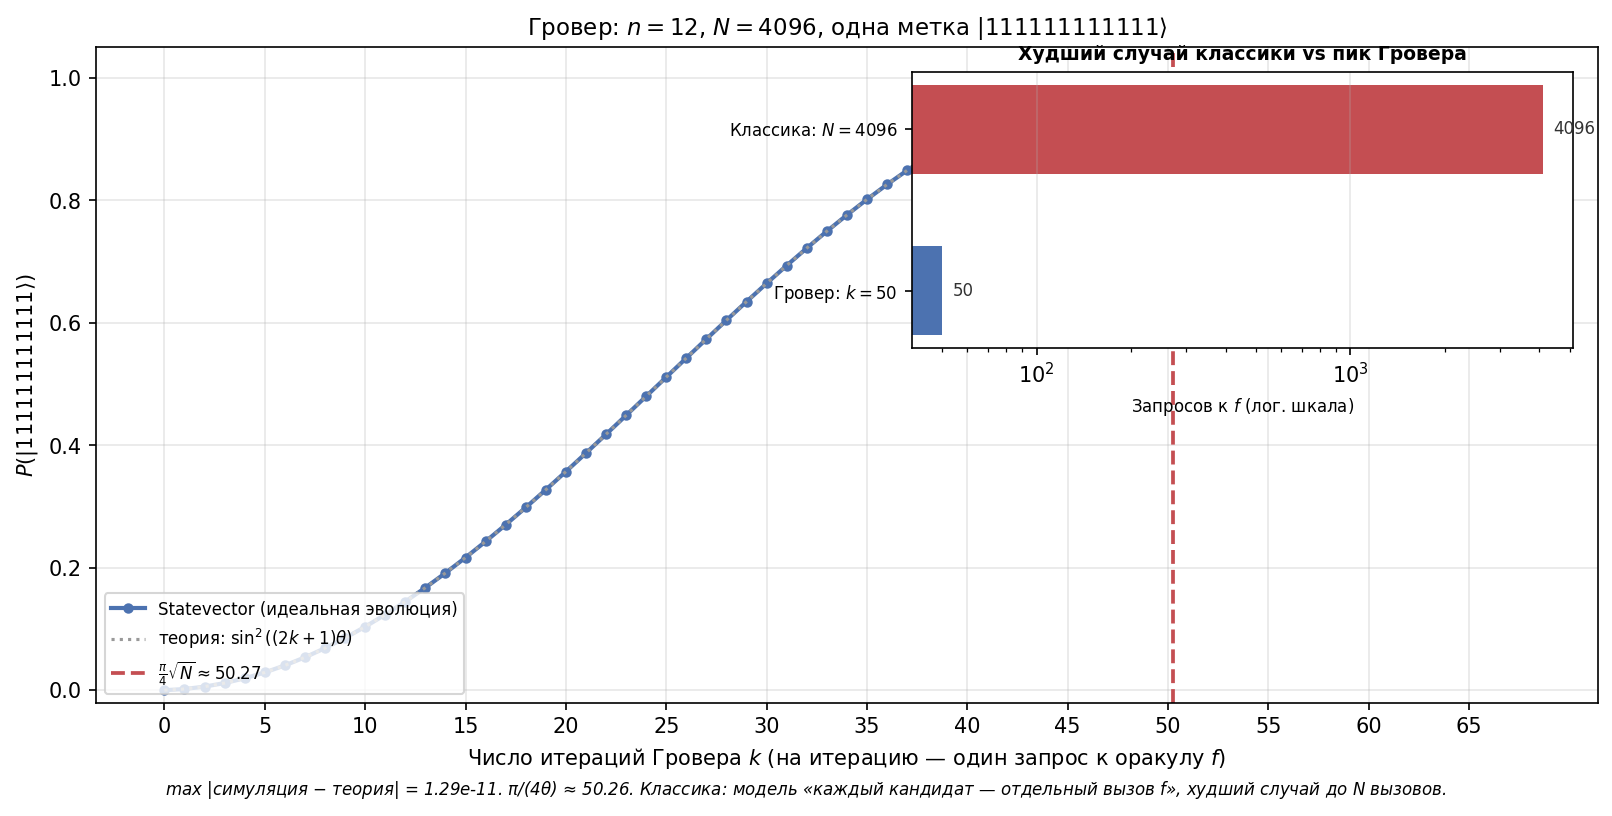
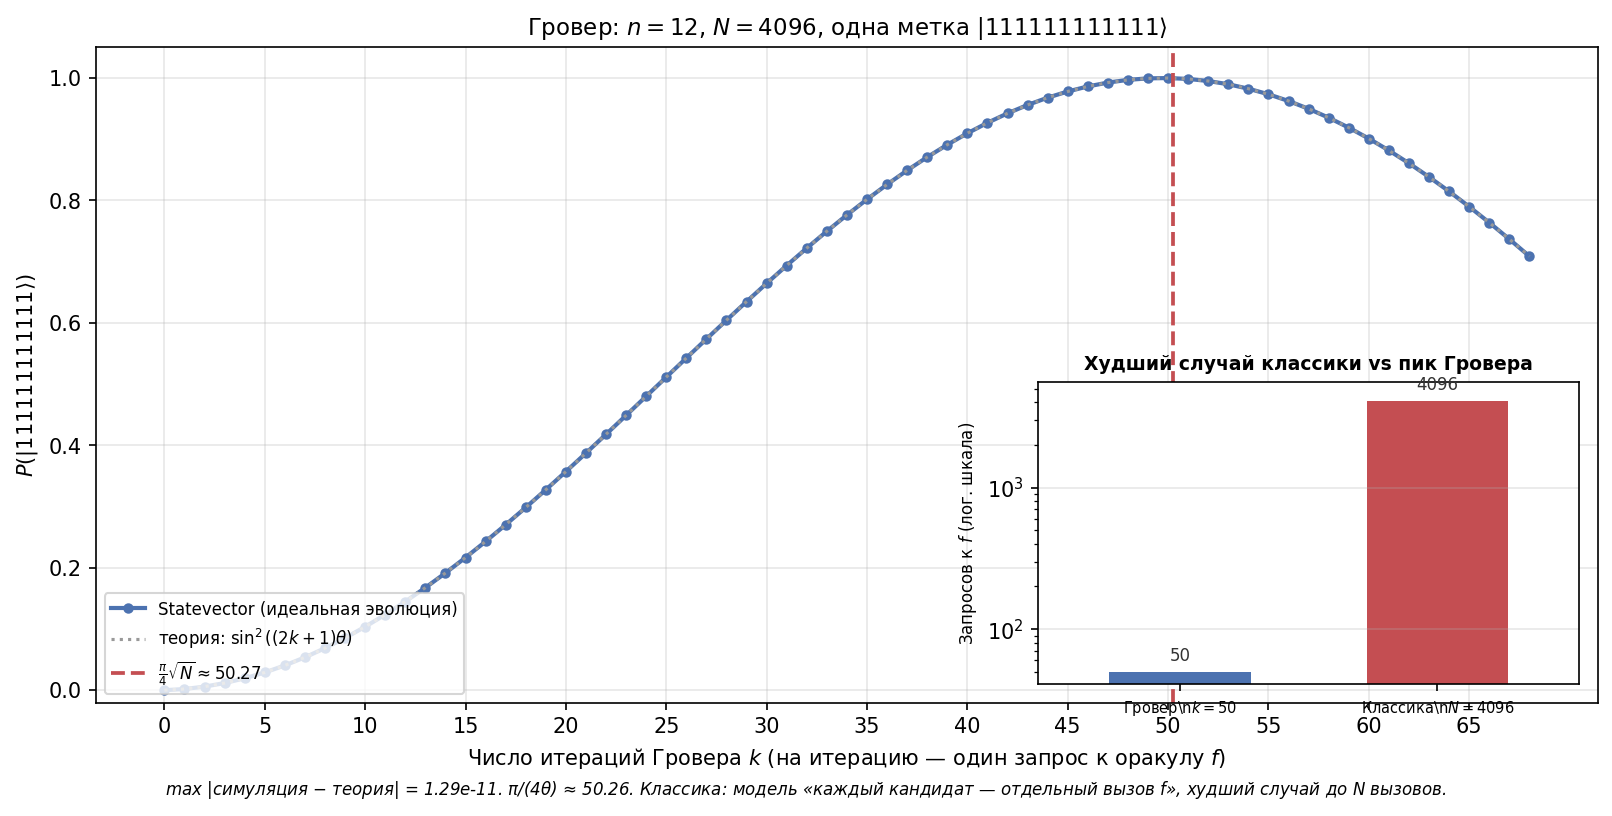
Grover 12q: врезка столбиками внизу справа, лог. ось Y

diff --git a/grover_n_qubits_aer_iterations.py b/grover_n_qubits_aer_iterations.py
@@ -174,36 +174,47 @@ def main() -> None:
 
     inset_axis = inset_axes(
         axis,
-        width="44%",
-        height="42%",
-        loc="upper right",
-        borderpad=1.2,
+        width="36%",
+        height="46%",
+        loc="lower right",
+        borderpad=0.9,
     )
     bar_heights = [
         max(grover_oracle_queries_at_peak, 1),
         max(classical_worst_case_queries, 1),
     ]
     bar_colors = ["#4C72B0", "#C44E52"]
-    row_positions = np.arange(2)
-    inset_axis.barh(row_positions, bar_heights, color=bar_colors, height=0.55, align="center")
-    inset_axis.set_xscale("log")
-    inset_axis.set_yticks(row_positions)
-    inset_axis.set_yticklabels(
-        [
-            rf"Гровер: $k={grover_oracle_queries_at_peak}$",
-            rf"Классика: $N={classical_worst_case_queries}$",
-        ],
-        fontsize=8,
+    column_positions = np.array([0.0, 1.0])
+    bar_width = 0.55
+    inset_axis.bar(
+        column_positions,
+        bar_heights,
+        width=bar_width,
+        color=bar_colors,
+        align="center",
     )
-    inset_axis.set_xlabel("Запросов к $f$ (лог. шкала)", fontsize=8)
+    inset_axis.set_yscale("log")
+    inset_axis.set_xticks(column_positions)
+    inset_axis.set_xticklabels(
+        [
+            rf"Гровер\n$k={grover_oracle_queries_at_peak}$",
+            rf"Классика\n$N={classical_worst_case_queries}$",
+        ],
+        fontsize=7,
+    )
+    inset_axis.set_ylabel("Запросов к $f$ (лог. шкала)", fontsize=8)
     inset_axis.set_title("Худший случай классики vs пик Гровера", fontsize=9, fontweight="bold")
-    inset_axis.grid(True, axis="x", alpha=0.3)
-    for row_index, bar_value in enumerate(bar_heights):
+    inset_axis.grid(True, axis="y", alpha=0.3)
+    inset_axis.set_xlim(-0.55, 1.55)
+    y_top = max(bar_heights) * 1.35
+    inset_axis.set_ylim(min(bar_heights) * 0.82, y_top)
+    for column_index, bar_value in enumerate(bar_heights):
         inset_axis.text(
-            bar_value * 1.08,
-            row_index,
+            column_positions[column_index],
+            bar_value * 1.12,
             f"{bar_value}",
-            va="center",
+            ha="center",
+            va="bottom",
             fontsize=8,
             color="#333333",
         )
